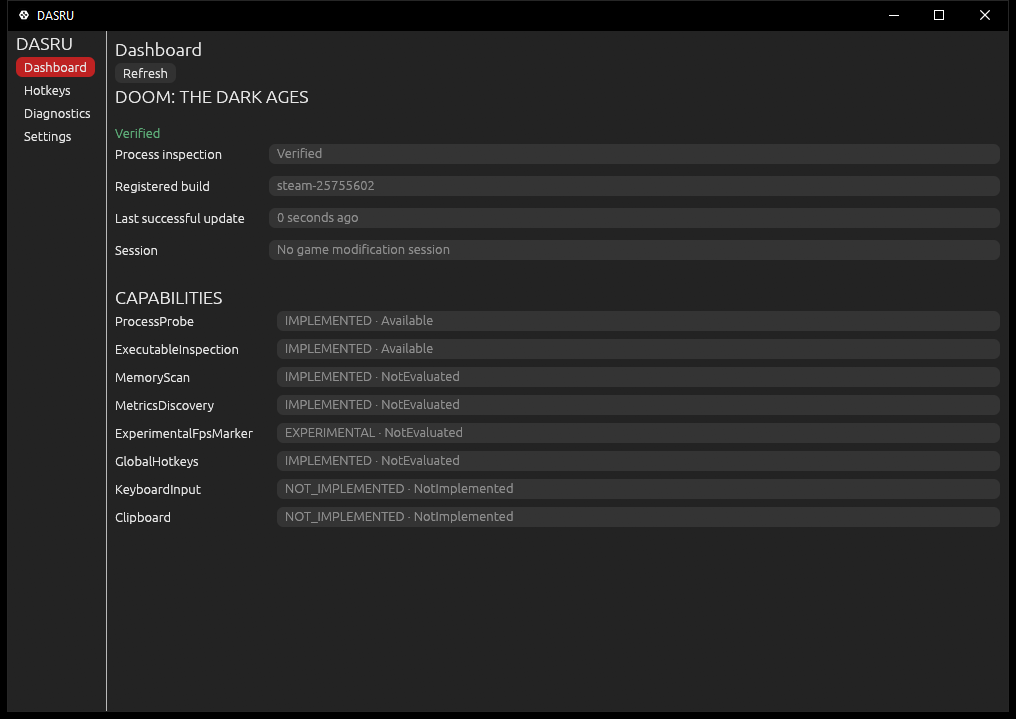
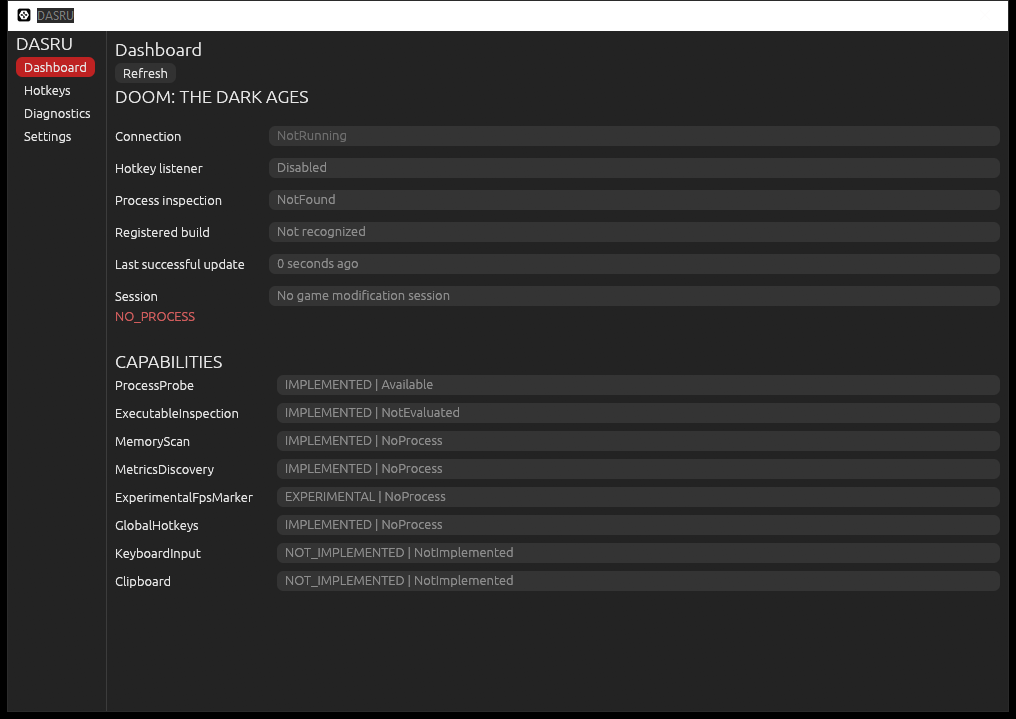
Harden native smoke evidence and record hosted validation

diff --git a/docs/pr9-tdd-evidence.md b/docs/pr9-tdd-evidence.md
@@ -50,23 +50,39 @@ to match title, visibility and minimum dimensions. A navigation-message experime
 was removed because posted button messages did not reliably select coordinates.
 Only the final inspected screenshot and corresponding JSON are retained.
 
-Final debug-build sample at 96 DPI (100%): startup to visible window 437.9 ms;
-10-second sample consumed 3125 ms process CPU (0.3125 of one logical CPU), working
-set 86,937,600 ? 88,244,224 bytes; maximum WM_NULL response 9.84 ms; normal shutdown
-140.2 ms, exit code 0. Sampling includes initial monitoring and rendering, so it
-is not a release idle-CPU benchmark or a sustained-memory stability test.
-The screenshot shows actual Verified process status and registered build
-`steam-25755602`. See `evidence/gui-window.png` and `evidence/gui-smoke.json`.
+The earlier game-running debug sample at 96 DPI showed actual Verified process
+status and registered build `steam-25755602`; retain its inspected screenshot as
+`evidence/gui-game-running.png`. That capture predates the final layout rows.
+
+Two final-source debug runs with no game, at 96 DPI, passed visible-window,
+message responsiveness and normal-close checks. Startup was 417.4 / 382.8 ms;
+10-second CPU samples consumed 187.5 / 281.25 ms; maximum message response was
+5.94 / 5.73 ms; normal shutdown took 1116.4 / 121.8 ms, both exit code 0.
+Working sets stayed approximately 74-77 MB during these short runs. See
+`evidence/gui-smoke-repeat-1.json`, `evidence/gui-smoke-repeat-2.json`, and the
+final no-game screenshot `evidence/gui-window.png`. These are short debug runs,
+not release performance or sustained focus-cycle memory acceptance.
+
+One intervening smoke run exceeded the 15-second process-wait limit. Temporary
+diagnostics subsequently showed application, monitor and settings cleanup all
+completed; the diagnostics were removed. A separate run exposed null ExitCode
+from PowerShell Start-Process. The harness now explicitly retains a managed
+process handle, records real game presence and writes failure JSON instead of
+leaving stale passing metrics. Two repeats pass, but the isolated timeout's root
+cause is not conclusively established; extended shutdown acceptance remains open.
 
 ## Hosted CI and remaining acceptance
 
-Bootstrap commit b5ad467 passed hosted Windows and Ubuntu checks, including the
-Windows release build. Those results do not validate the subsequent implementation;
-latest-commit hosted results must be checked after pushing.
+Source revision 2c2bdfa passed hosted Windows and Ubuntu CI on Rust 1.95:
+https://github.com/floris-xlx/DASRU/actions/runs/42191220518
+The Windows job executed Raw Input unregister/repeated-start-stop tests, the new
+overflow test, atomic settings tests and the release GUI build. These are backend
+resource tests, not proof of physical GUI/TDA shortcut acceptance. The subsequent
+smoke-harness/evidence-only revision must also be checked after pushing.
 
 Merge remains blocked pending physical GUI hotkey dispatch/focus/hold/release,
 listener stop/window-close Raw Input cleanup against TDA, game exit/restart,
-unknown executable/access-failure live cases, no-game native launch, native
+unknown executable/access-failure live cases, native
 125-200% DPI and monitor moves, release idle/memory-cycle performance, final
 redistribution notices/project-license decision and PR review. The GUI exports to
 a user-entered path; a native browse dialog is not implemented. Raw Input events now use a bounded 256-event queue; overload invalidates queued focus generations and terminates dispatch. OS I/O and an in-flight support export may delay close, although
@@ -75,4 +91,4 @@ executable hashing now cooperatively cancels between chunks.
 No FPS limiting, input injection, macros, automation, OSD writes or memory writes
 were added. This document records evidence and open gates, not a completion claim.
 
-Additional regression: a pre-existing temporary settings file is preserved on creation collision (RED missing publish helper; GREEN ownership-aware publication). The Windows overflow test first failed compilation with missing overload state/error code; it now compiles locally and awaits hosted execution. Windows orchestration was moved into windows/session.rs to keep the backend module below 1,000 lines.
+Additional regression: a pre-existing temporary settings file is preserved on creation collision (RED missing publish helper; GREEN ownership-aware publication). The Windows overflow test first failed compilation with missing overload state/error code; it compiles locally and passed hosted Windows execution. Windows orchestration was moved into windows/session.rs to keep the backend module below 1,000 lines.

diff --git a/docs/gui-design.md b/docs/gui-design.md
@@ -22,5 +22,5 @@ a project-license decision; README currently explicitly selects no DASRU license
 
 Headless tests exercise all screens at 100%, 125%, 150% and 200% scaling.
 This establishes renderability, not pixel-level Windows DPI acceptance. Native
-100% screenshots and smoke measurements are in `docs/evidence`. Physical shortcut,
+100% game-running and no-game screenshots and smoke measurements are in `docs/evidence`. Physical shortcut,
 high-DPI and monitor-move acceptance remain open.
